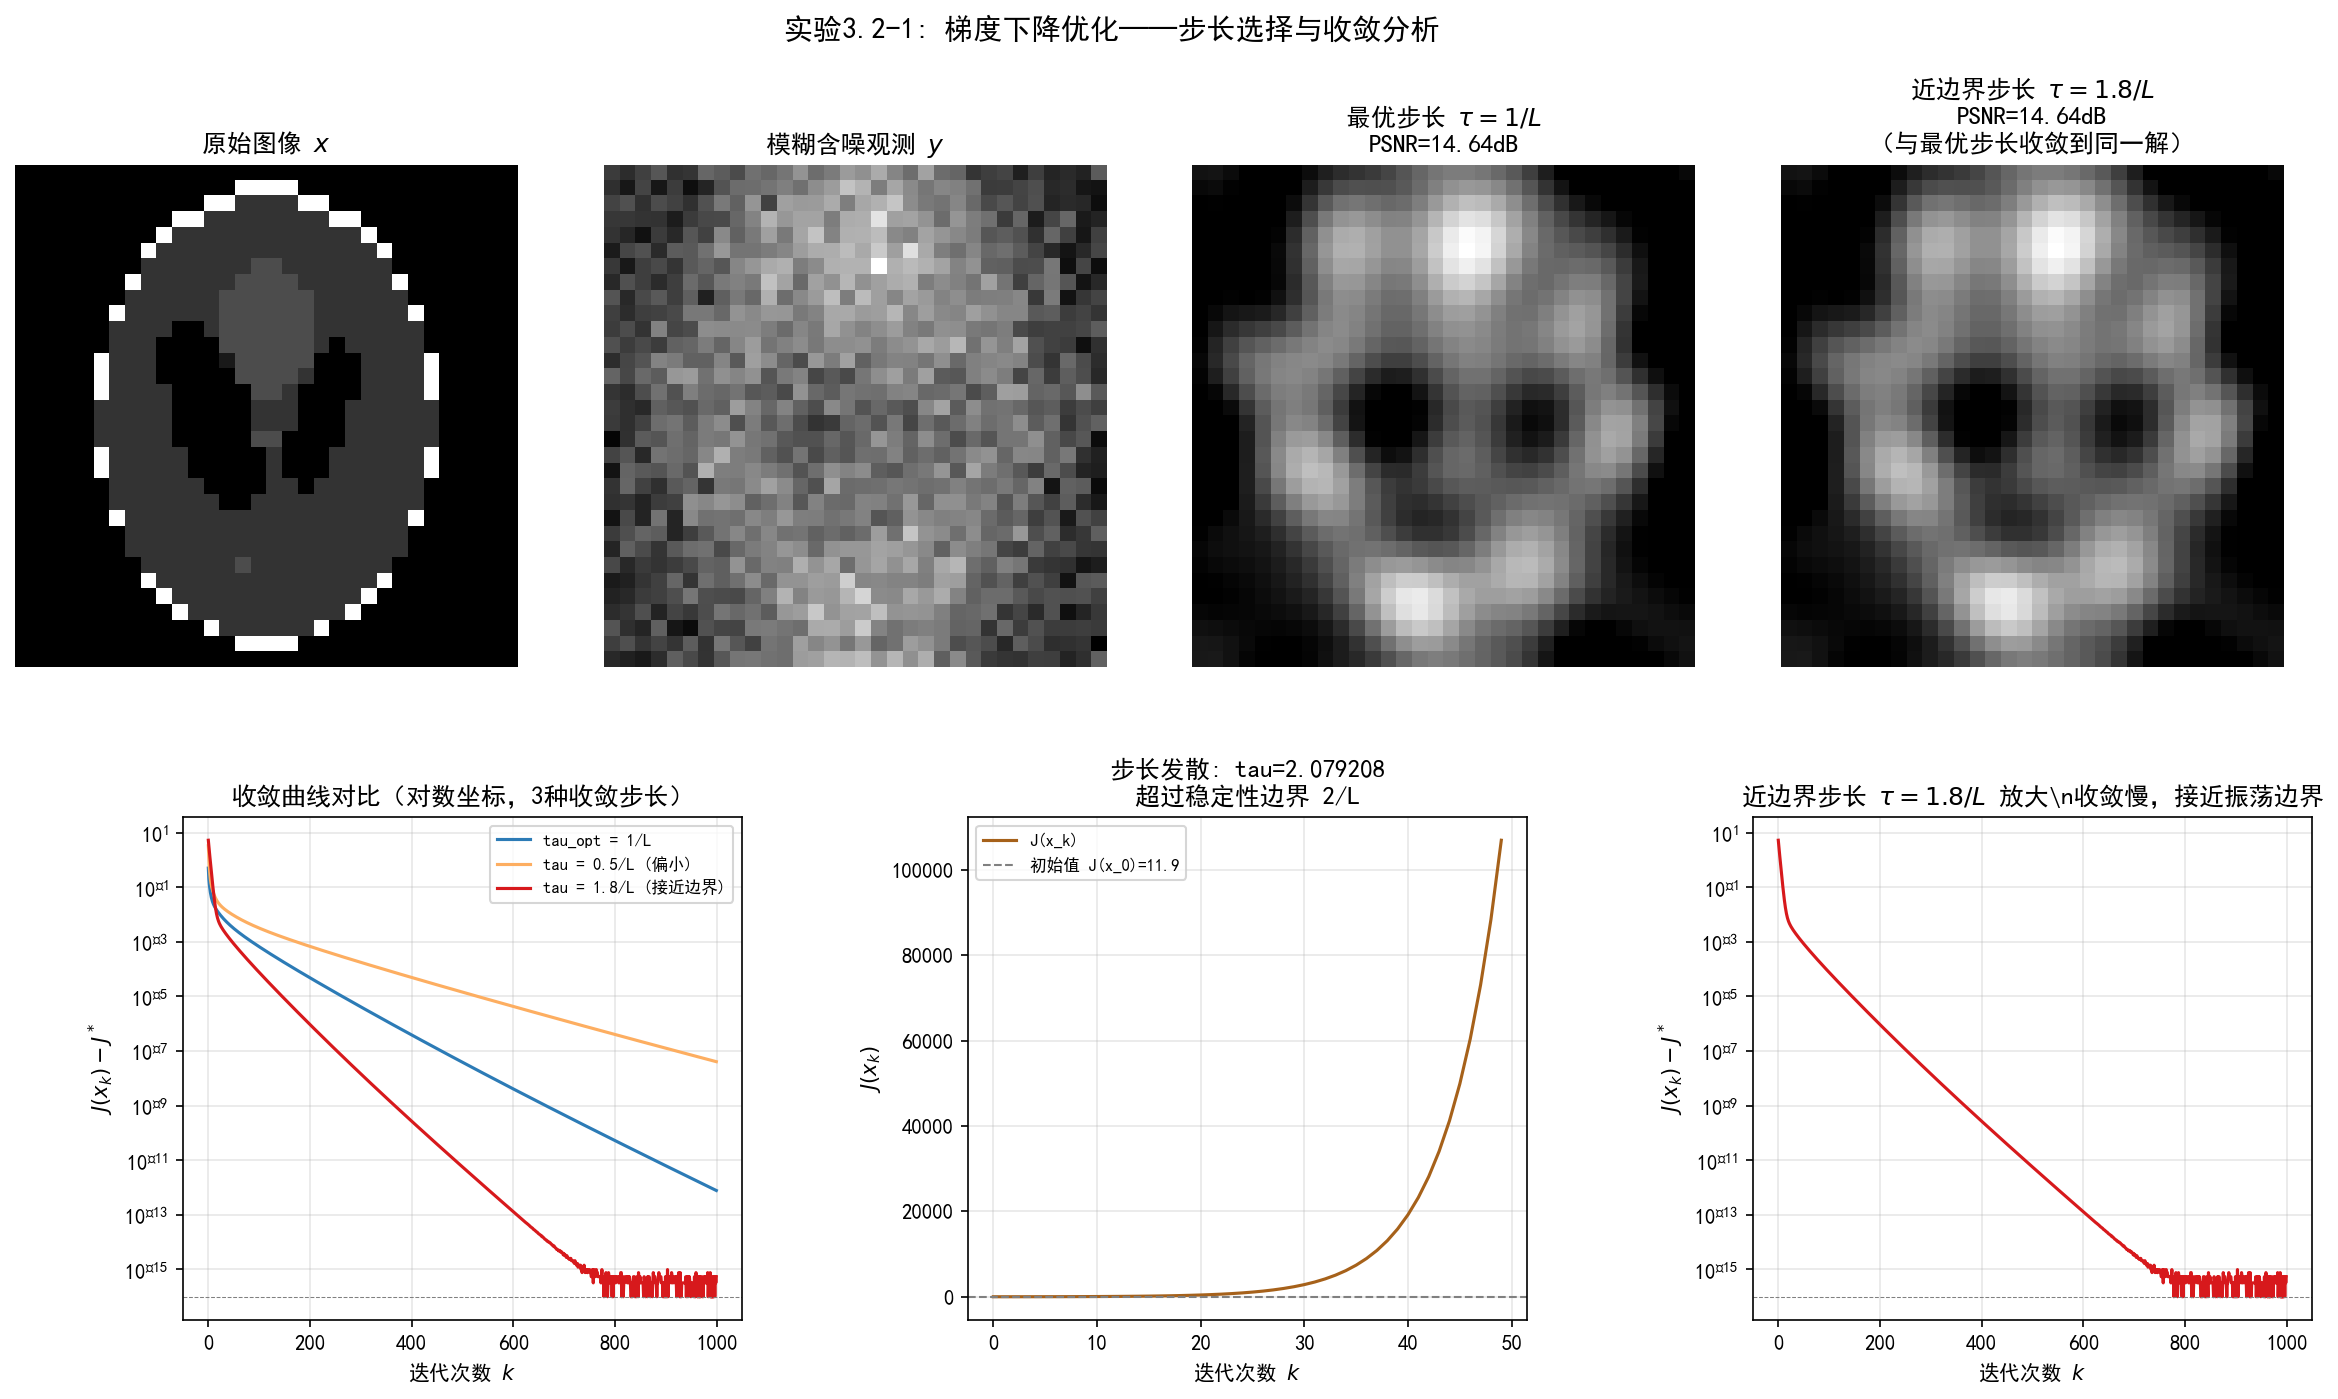
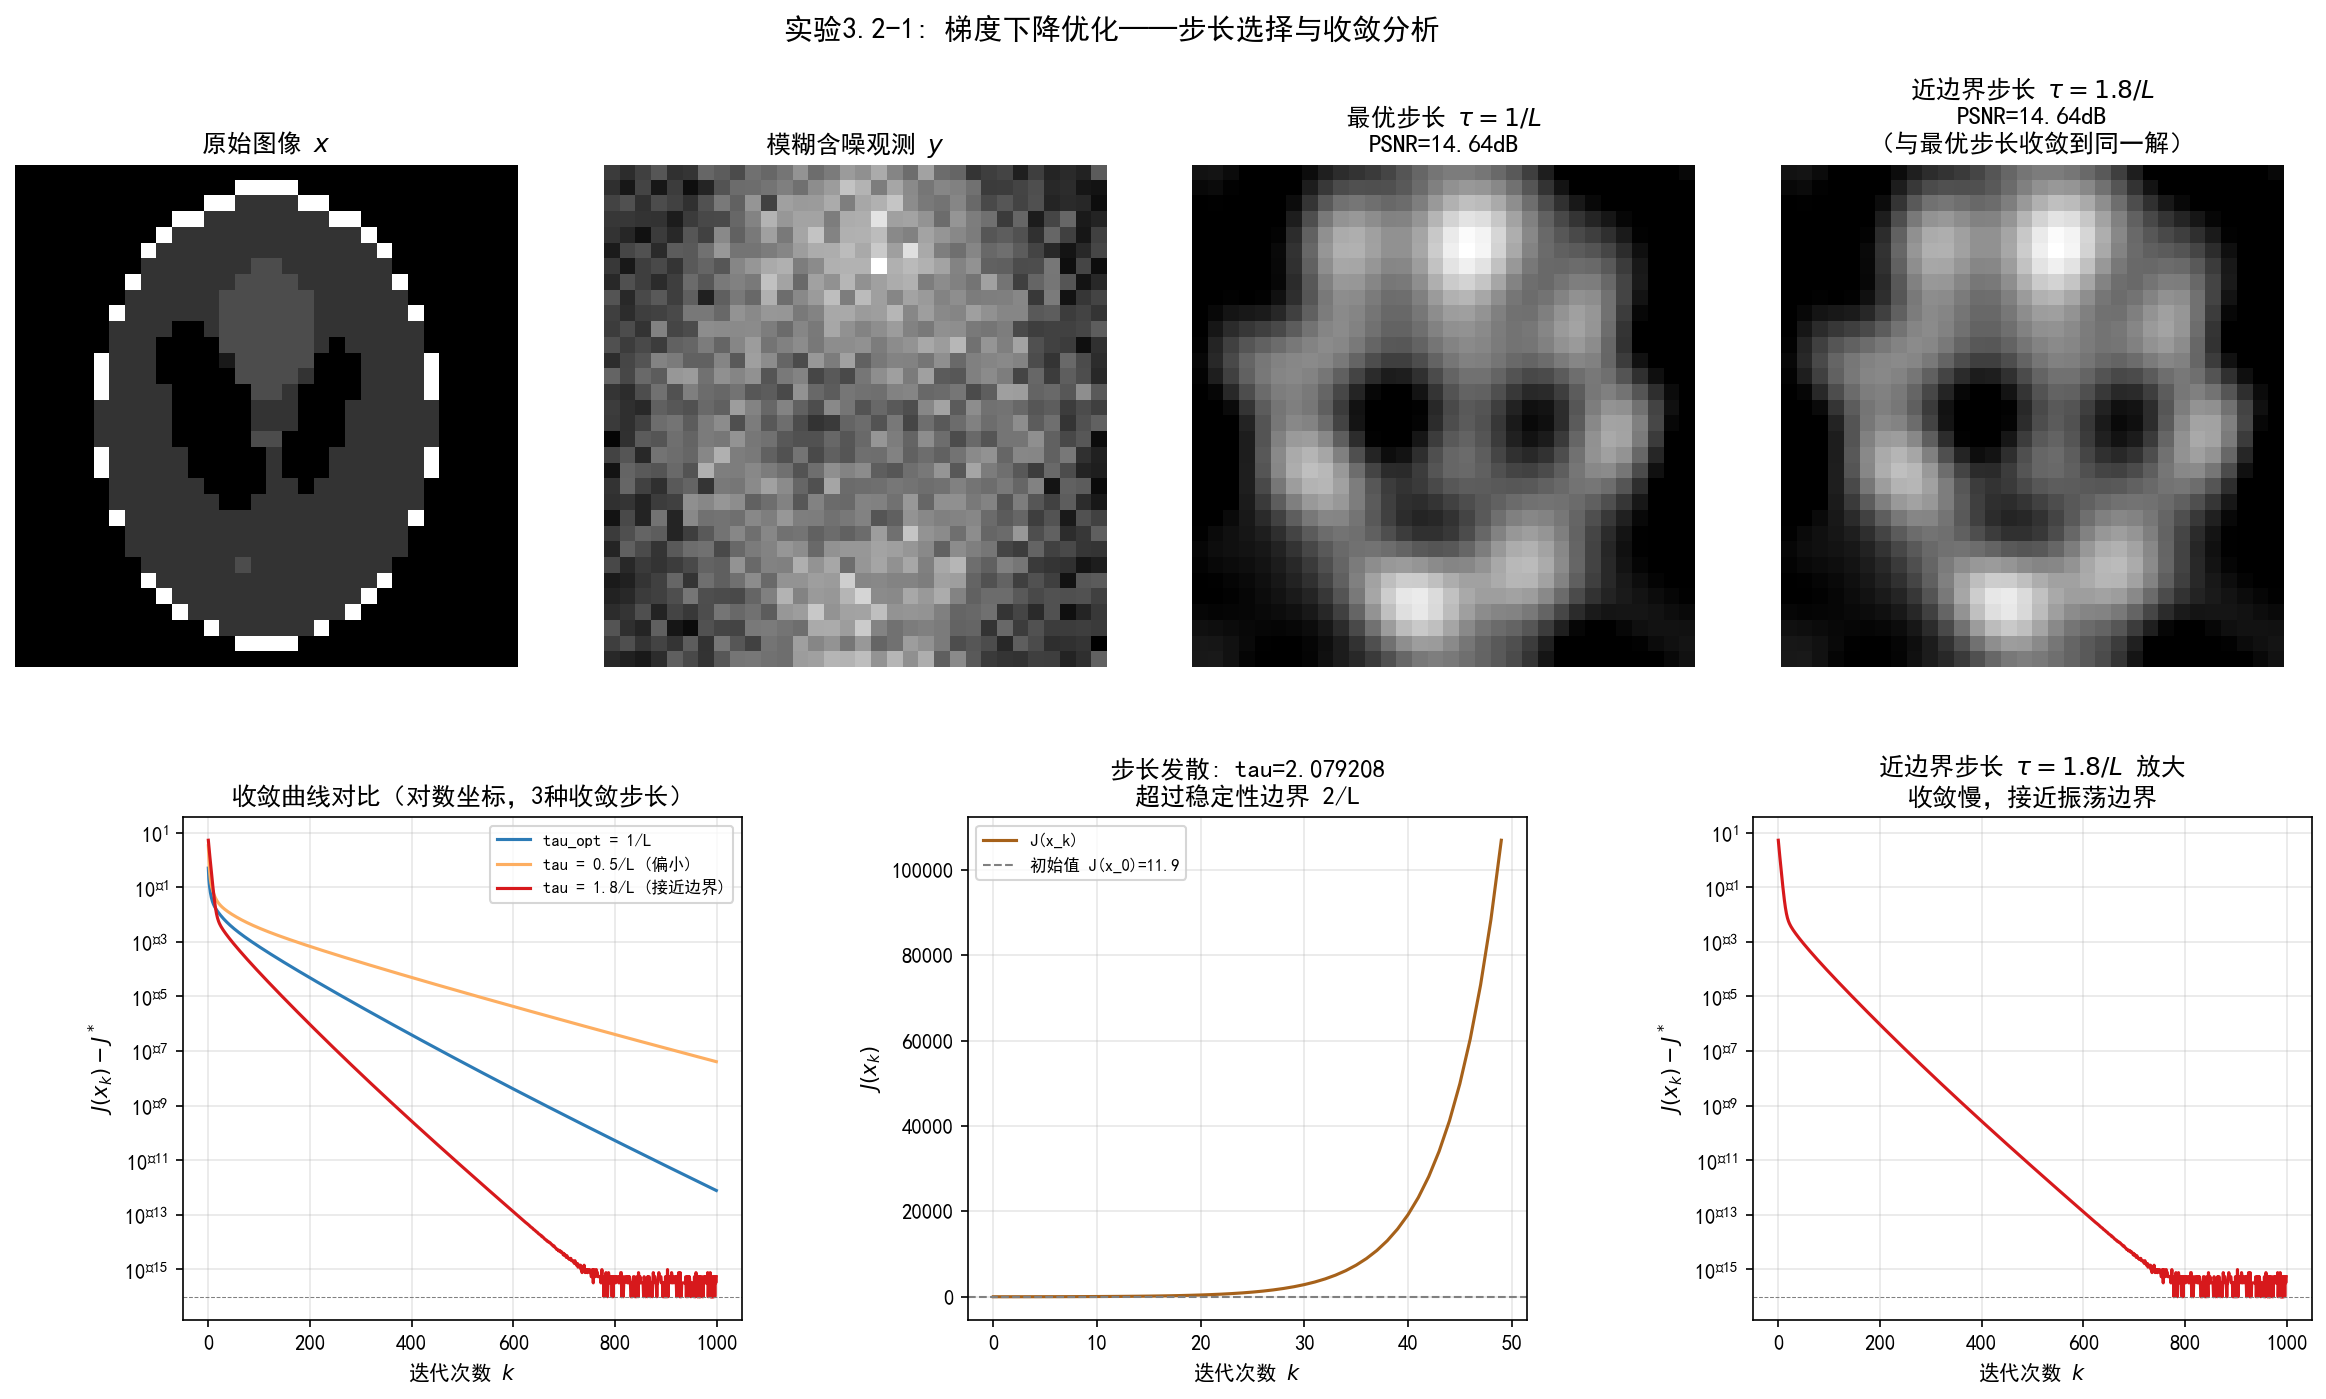
1

diff --git a/第1章 逆问题与贝叶斯推断/第一章 配套实验/实验1.3-2/1.3-2.py b/第1章 逆问题与贝叶斯推断/第一章 配套实验/实验1.3-2/1.3-2.py
@@ -95,7 +95,7 @@ fig, axes = plt.subplots(2, 3, figsize=(16, 10))
 axes[0, 0].semilogy(np.arange(1, len(sigma) + 1), sigma, 'b-', linewidth=1)
 axes[0, 0].set_xlabel('奇异值索引 i')
 axes[0, 0].set_ylabel(r'$\sigma_i$')
-axes[0, 0].set_title(r'奇异值衰减曲线\n$\sigma_i \to 0$ 导致 $1/\sigma_i \to \infty$')
+axes[0, 0].set_title(r'奇异值衰减曲线' + '\n$\sigma_i \to 0$ 导致 $1/\sigma_i \to \infty$')
 axes[0, 0].grid(True)
 
 # (b) Picard 图
@@ -112,7 +112,7 @@ axes[0, 1].grid(True)
 axes[0, 2].semilogy(i_range, 1.0 / sigma[:len(i_range)], 'r-', linewidth=1)
 axes[0, 2].set_xlabel('奇异值索引 i')
 axes[0, 2].set_ylabel(r'$1/\sigma_i$')
-axes[0, 2].set_title(r'伪逆放大因子 $1/\sigma_i$\n小奇异值→巨大放大')
+axes[0, 2].set_title(r'伪逆放大因子 $1/\sigma_i$' + '\n小奇异值→巨大放大')
 axes[0, 2].grid(True)
 
 # (d) 原始图像

diff --git a/第3章 从MAP到后验探索/第三章 配套实验/实验3.2-1/3.2-1.py b/第3章 从MAP到后验探索/第三章 配套实验/实验3.2-1/3.2-1.py
@@ -332,7 +332,7 @@ axes_bottom[2].semilogy(gap_near_safe, color='#d7191c', linewidth=1.5)
 axes_bottom[2].axhline(y=1e-16, color='gray', linestyle='--', linewidth=0.5)
 axes_bottom[2].set_xlabel('迭代次数 $k$')
 axes_bottom[2].set_ylabel(r'$J(x_k) - J^*$')
-axes_bottom[2].set_title(r'近边界步长 $\tau=1.8/L$ 放大\n收敛慢，接近振荡边界')
+axes_bottom[2].set_title(r'近边界步长 $\tau=1.8/L$ 放大' + '\n收敛慢，接近振荡边界')
 axes_bottom[2].grid(True, alpha=0.3)
 
 plt.suptitle(r'实验3.2-1: 梯度下降优化——步长选择与收敛分析', fontsize=14)

diff --git a/第3章 从MAP到后验探索/第三章 配套实验/实验3.1-1/3.1-1.py b/第3章 从MAP到后验探索/第三章 配套实验/实验3.1-1/3.1-1.py
@@ -186,7 +186,7 @@ ax3.axis('off')
 # 第二行：后验不确定性 → 能量分解（居中且适度分开，中间留1列间隙）
 ax4 = fig.add_subplot(gs[1, 1:3])  # 左侧图（占据第1-2列）
 im = ax4.imshow(post_var, cmap='hot')
-ax4.set_title(r'后验边缘方差 $\mathrm{diag}(\Sigma_{\mathrm{post}})$\n不确定性量化（忽略像素间相关性）')
+ax4.set_title(r'后验边缘方差 $\mathrm{diag}(\Sigma_{\mathrm{post}})$' + '\n不确定性量化（忽略像素间相关性）')
 ax4.axis('off')
 plt.colorbar(im, ax=ax4, fraction=0.046)
 

diff --git a/第3章 从MAP到后验探索/第三章 配套实验/实验3.0-1/3.0-1.py b/第3章 从MAP到后验探索/第三章 配套实验/实验3.0-1/3.0-1.py
@@ -10,7 +10,7 @@
       3) TV 近端（TV 先验，保边，Chambolle-Pock 原始-对偶）
   - 直观看到：不同先验=不同正则项，把"朴素逆（噪声炸开）"的答案拉回了不同形状的合理解。
 
-只需 numpy + scipy + matplotlib，无私有包依赖。运行：python 第3章章末代码.py
+只需 numpy + scipy + matplotlib，无私有包依赖。运行：python 3.0-1.py
 """
 
 import numpy as np

diff --git a/第3章 从MAP到后验探索/3.1 MAP估计：从后验众数到优化问题.md b/第3章 从MAP到后验探索/3.1 MAP估计：从后验众数到优化问题.md
@@ -2,11 +2,11 @@
 
 > *"后验都写出来了，然后呢？"* —— 这是第2章结尾时，你心里最自然的那句嘀咕。
 
-**路标句**：上一章（第2章）把"先验 = 正则项"讲透了，后验的形式已经完整。但后验是高维空间里一团算不出的密度。本章我们退一步：先不要整片云，只要那一个点最合理的答案。这一节负责把"要那个点"翻译成"做一道优化题"。
+上一章（第2章）把"先验 = 正则项"讲透了，后验的形式已经完整。但后验是高维空间里一团算不出的密度。本章我们退一步：先不要整片云，只要那一个点最合理的答案。这一节负责把"要那个点"翻译成"做一道优化题"。
 
 ---
 
-**本节目标**（读完你应该能）：
+**本节目标**：
 
 - 说清 MAP 为什么就是"后验众数"，以及它和 MMSE（后验均值）是同一后验下的两种"问法"；
 - 写出 MAP = 最小化"数据项 + 正则项"这个核心等式；
